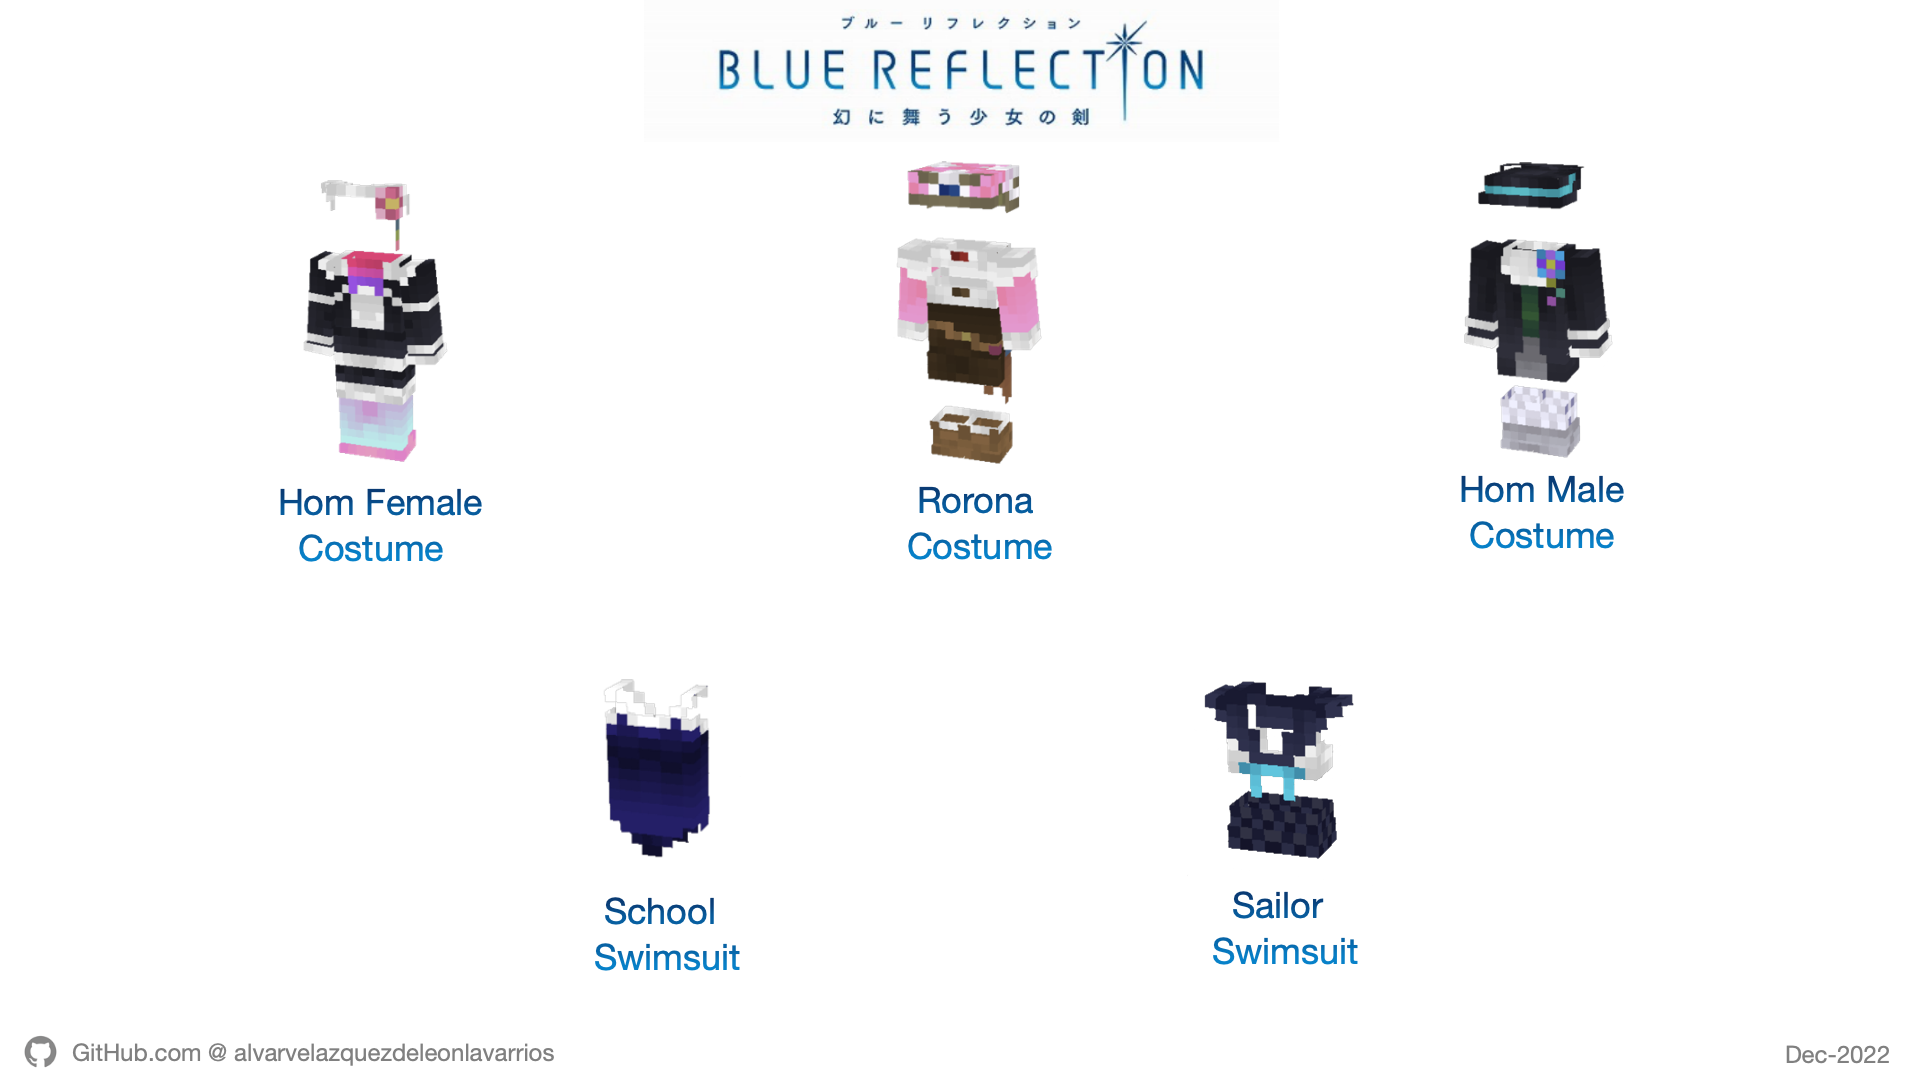
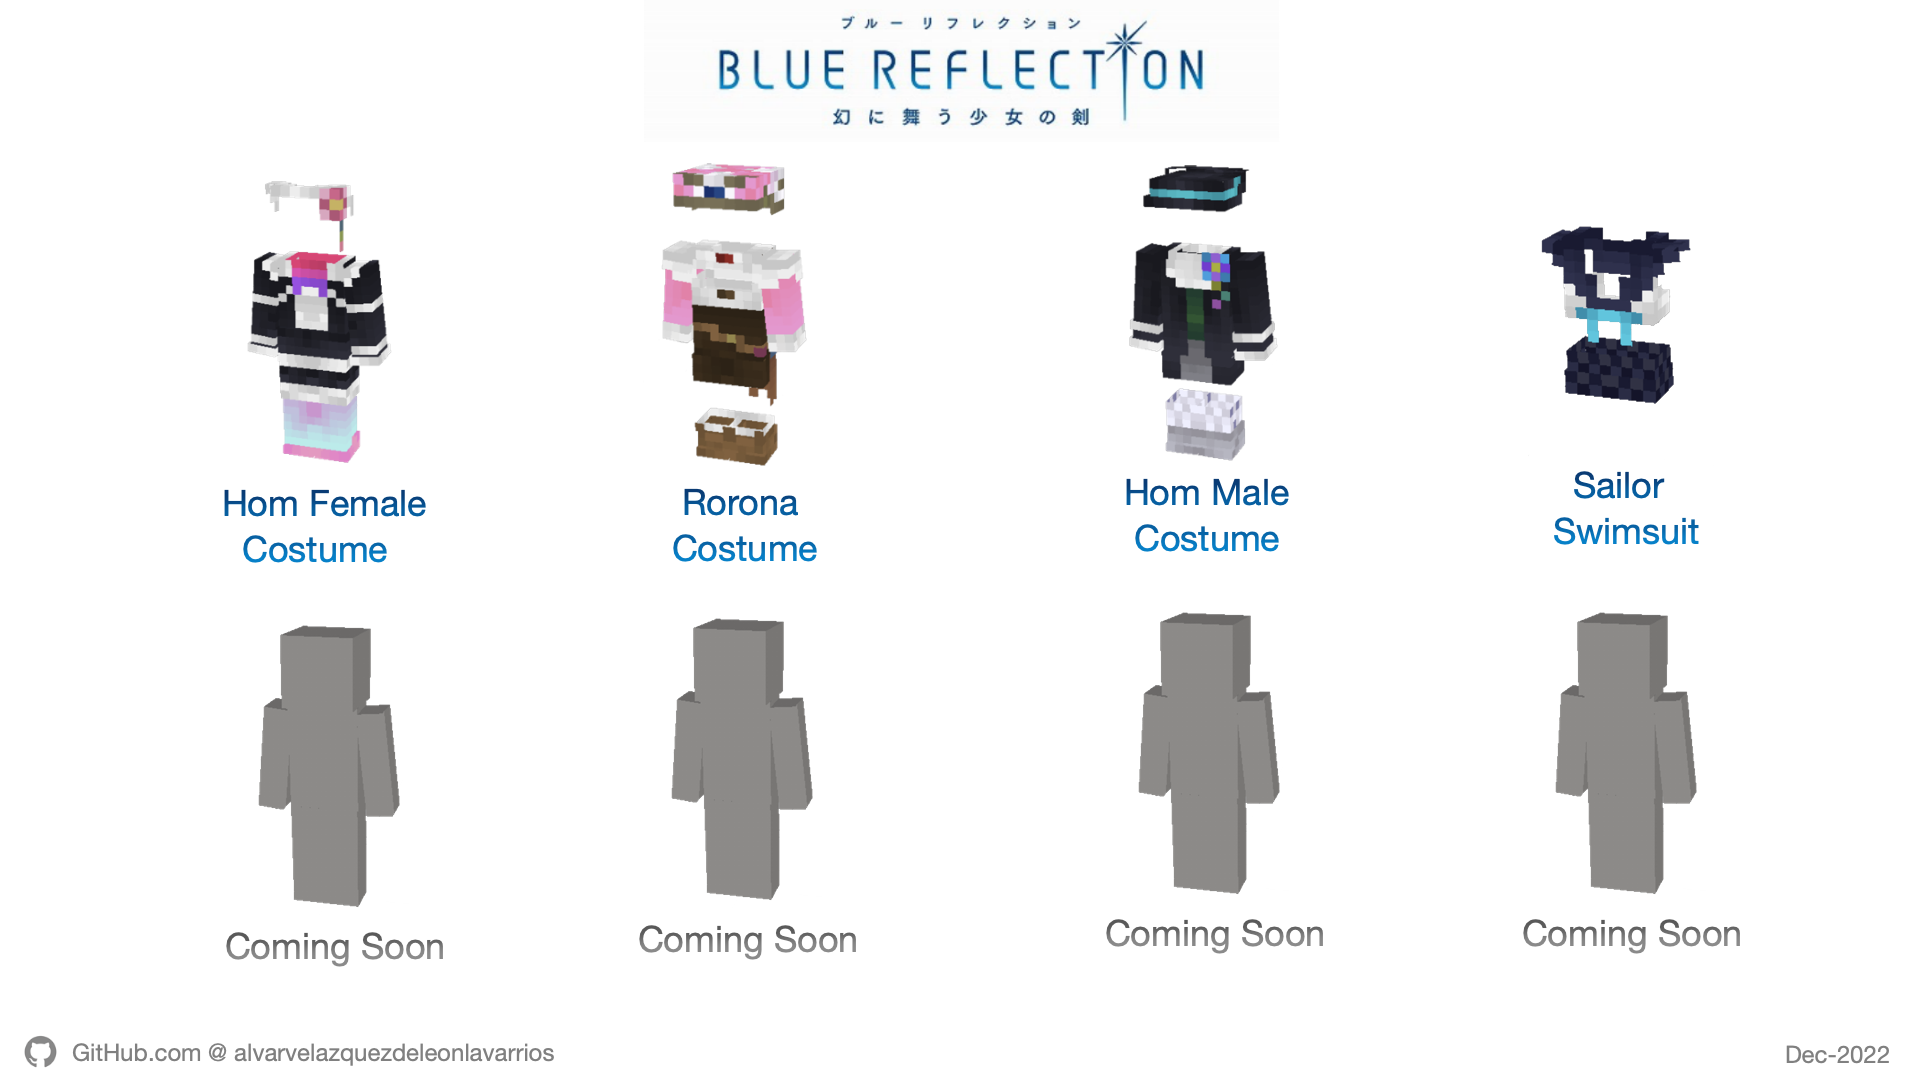
Reorganization in Uniforms and Costumes
Features:
- Moved Hoshinomiya School Swimsuit and Competitive Swimwear from Costumes to Uniforms folder.
- Added Gyms and Platanus kombini uniforms.
- Changes and fixes in the costumes and uniforms source images (coming soon... new costumes for Blue Reflection folder).

diff --git a/src/Uniforms.md b/src/Uniforms.md
@@ -2,15 +2,24 @@
 Contains the skins of the uniforms of each character or school in the franchise. They can be used as templates for characters from other video games or series, even for your own character if you want to cosplay him/her. Recomended to edit your custom character with the uniform templates via [Nova Skin](https://minecraft.novaskin.me/#) editor page.
 
 **Uniforms:**
-- Ao's uniform
-- Hoshinomiya uniform
-- Kirara's uniform
-- Kokoro's uniform
-- Meigetsu Girls' uniform
-- Rena's uniform
-- Shiho's uniform
-- St Inés uniform
-- Tsukinomiya uniform
-- Yuki's uniform
+- Ao's School Uniform
+- Hoshinomiya School Uniform
+- Kirara's School Uniform
+- Kokoro's School Uniform
+- Meigetsu Girls High School Uniform
+- Rena's School Uniform
+- Shiho's School Uniform
+- St Inés Academy Uniform
+- Tsukinomiya School Uniform
+- Yuki's School Uniform
 
 ![Blue Reflection Uniforms](/src/img/uniforms/BlueReflectionUniforms.png)
+
+- Hoshinomiya School Swimsuit
+- Competitive Swimwear
+- Hoshinomiya School Gym Uniform
+- Tsukinomiya School Gym Uniform
+- Green Sports Outfit
+- Platanus kombini Uniform
+
+![Blue Reflection Uniforms 3](/src/img/uniforms/BlueReflectionUniforms3.png)

diff --git a/src/Costumes.md b/src/Costumes.md
@@ -5,7 +5,6 @@ Contains the skins of the costumes used by the characters during the games and d
 - Rorona Costume
 - Arland Maid - Hom Female Costume
 - Arland Maid - Hom Male Costume
-- School Swimsuit
 - Sailor Swimsuit
 
 ![Blue Reflection Costumes](/src/img/costumes/BlueReflectionCostumes.png)
@@ -13,7 +12,6 @@ Contains the skins of the costumes used by the characters during the games and d
 **Costumes (Blue Reflection Tie):**
 - Reisalin Stout Costume
 - Sophie Neuenmuller Costume
-- Competitive Swimwear
 - Summer Bikini
 - Canary Green Bikini
 
